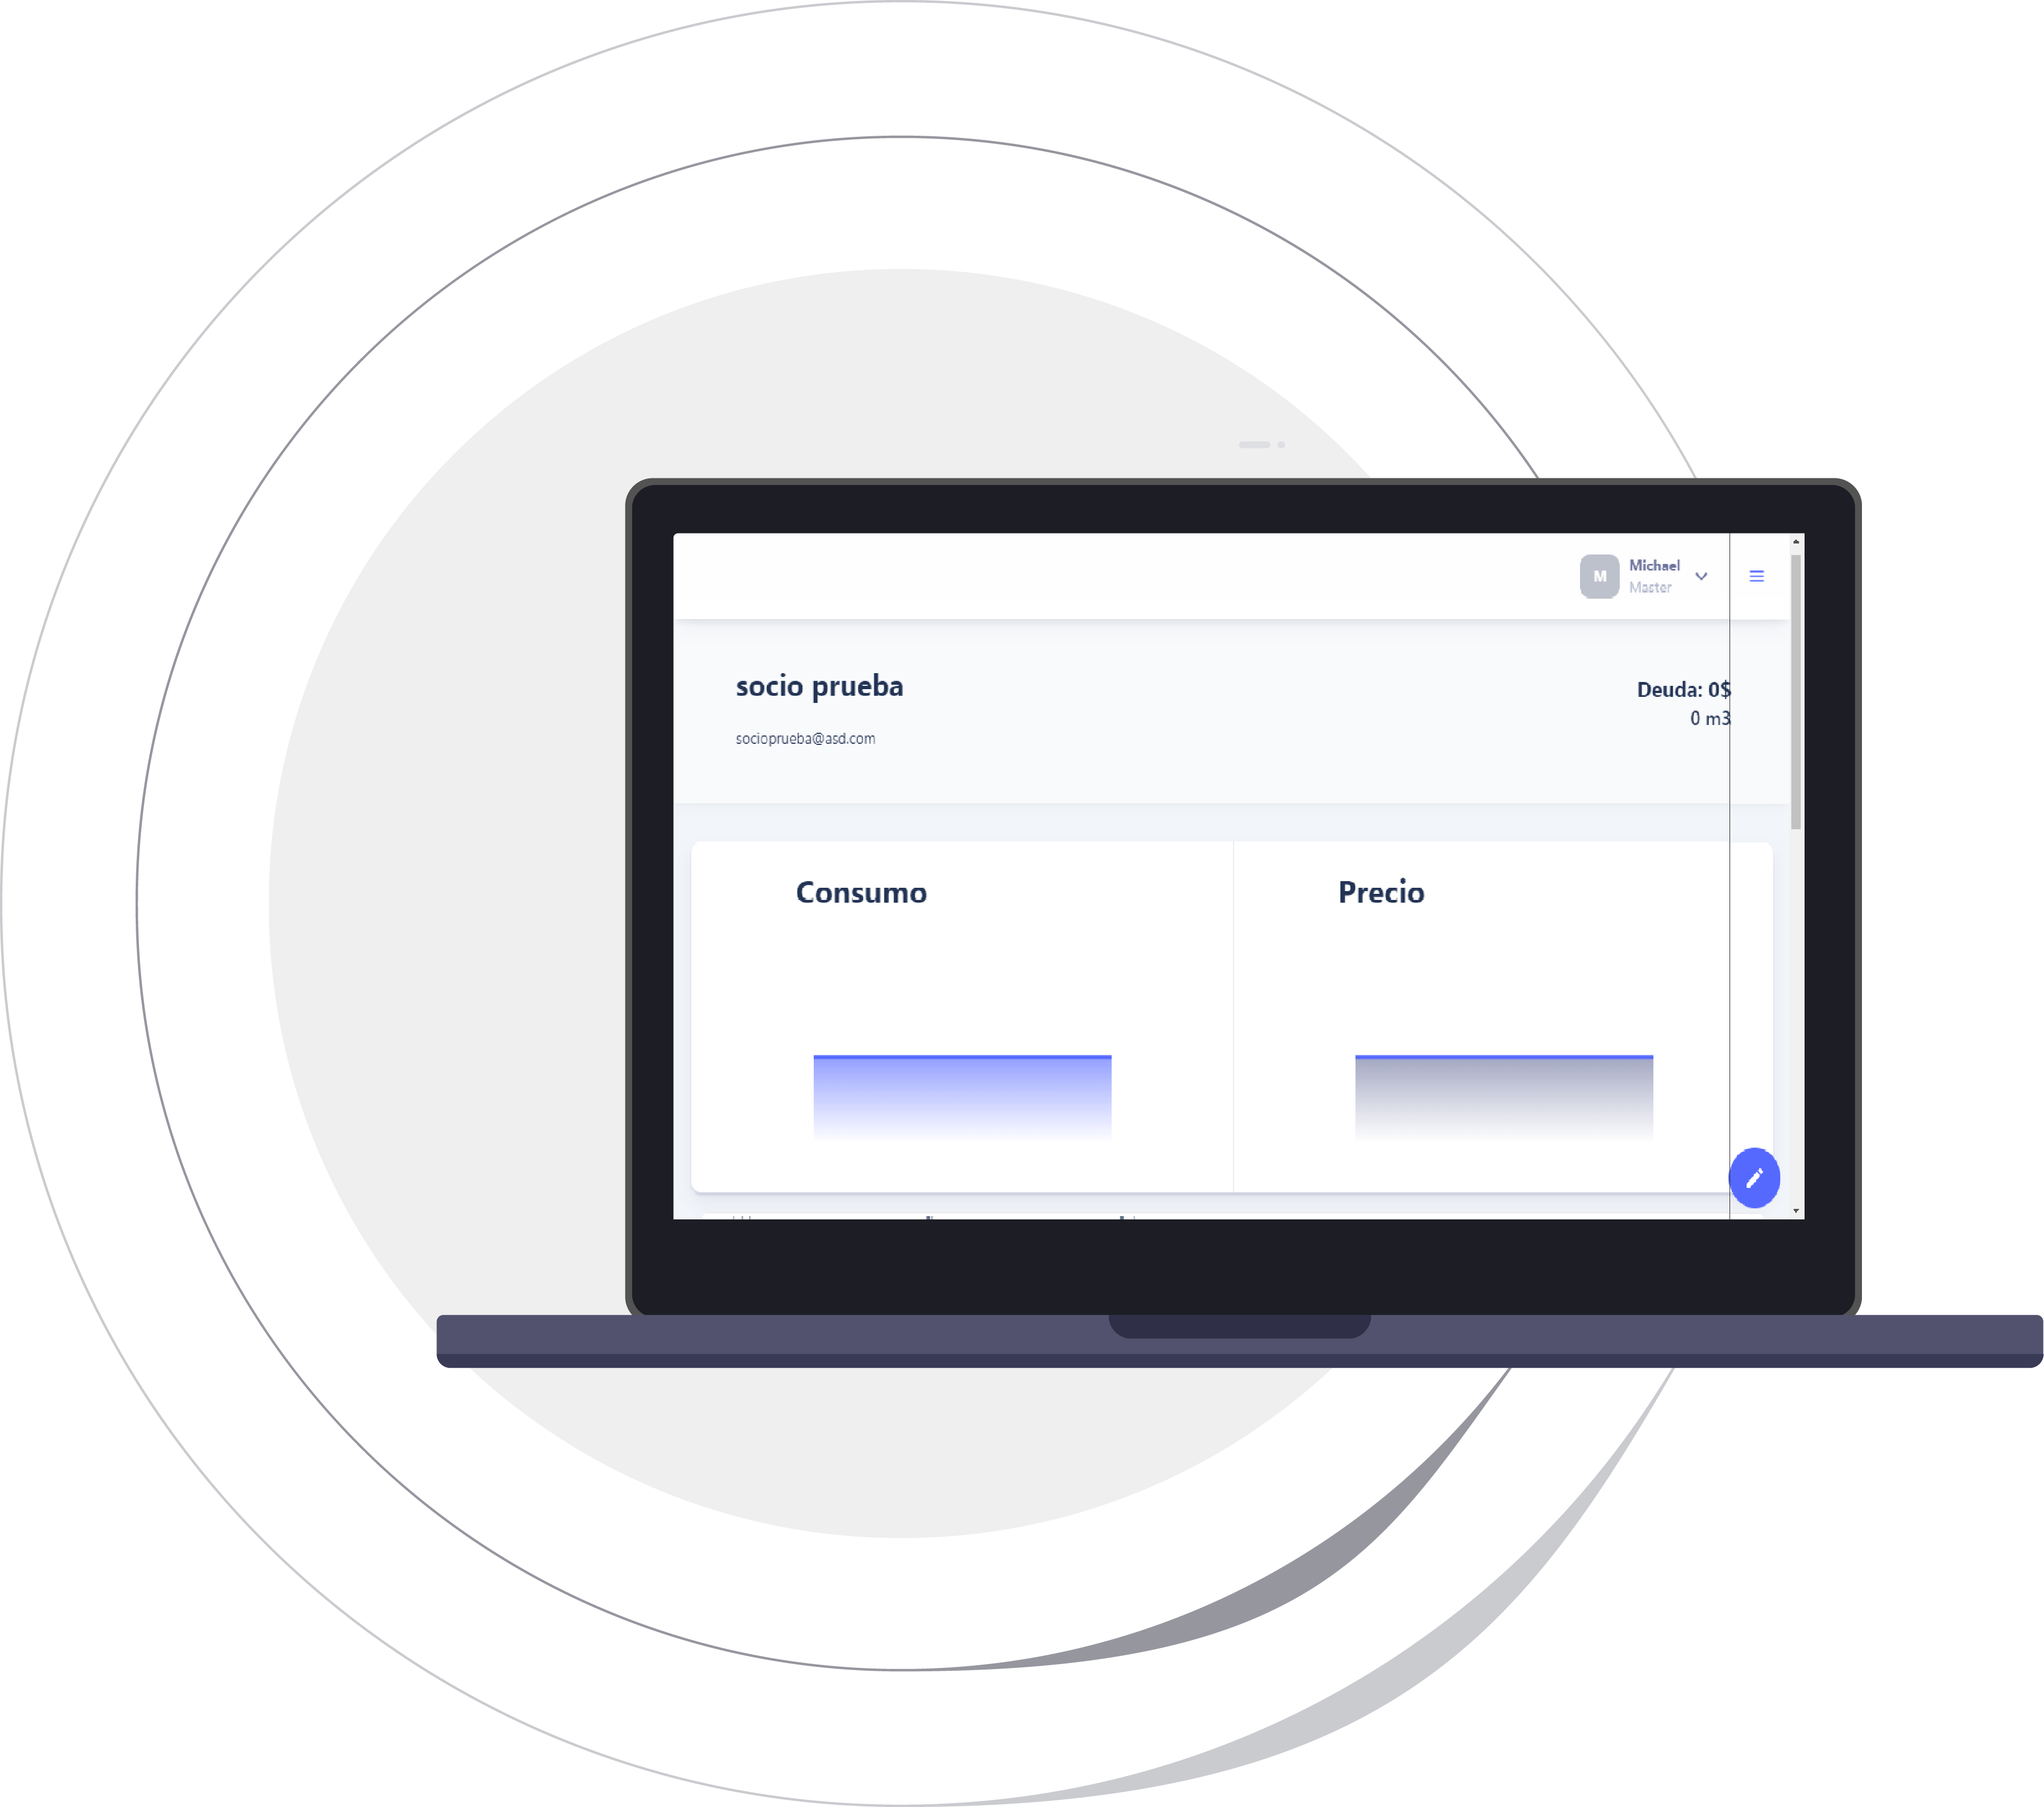
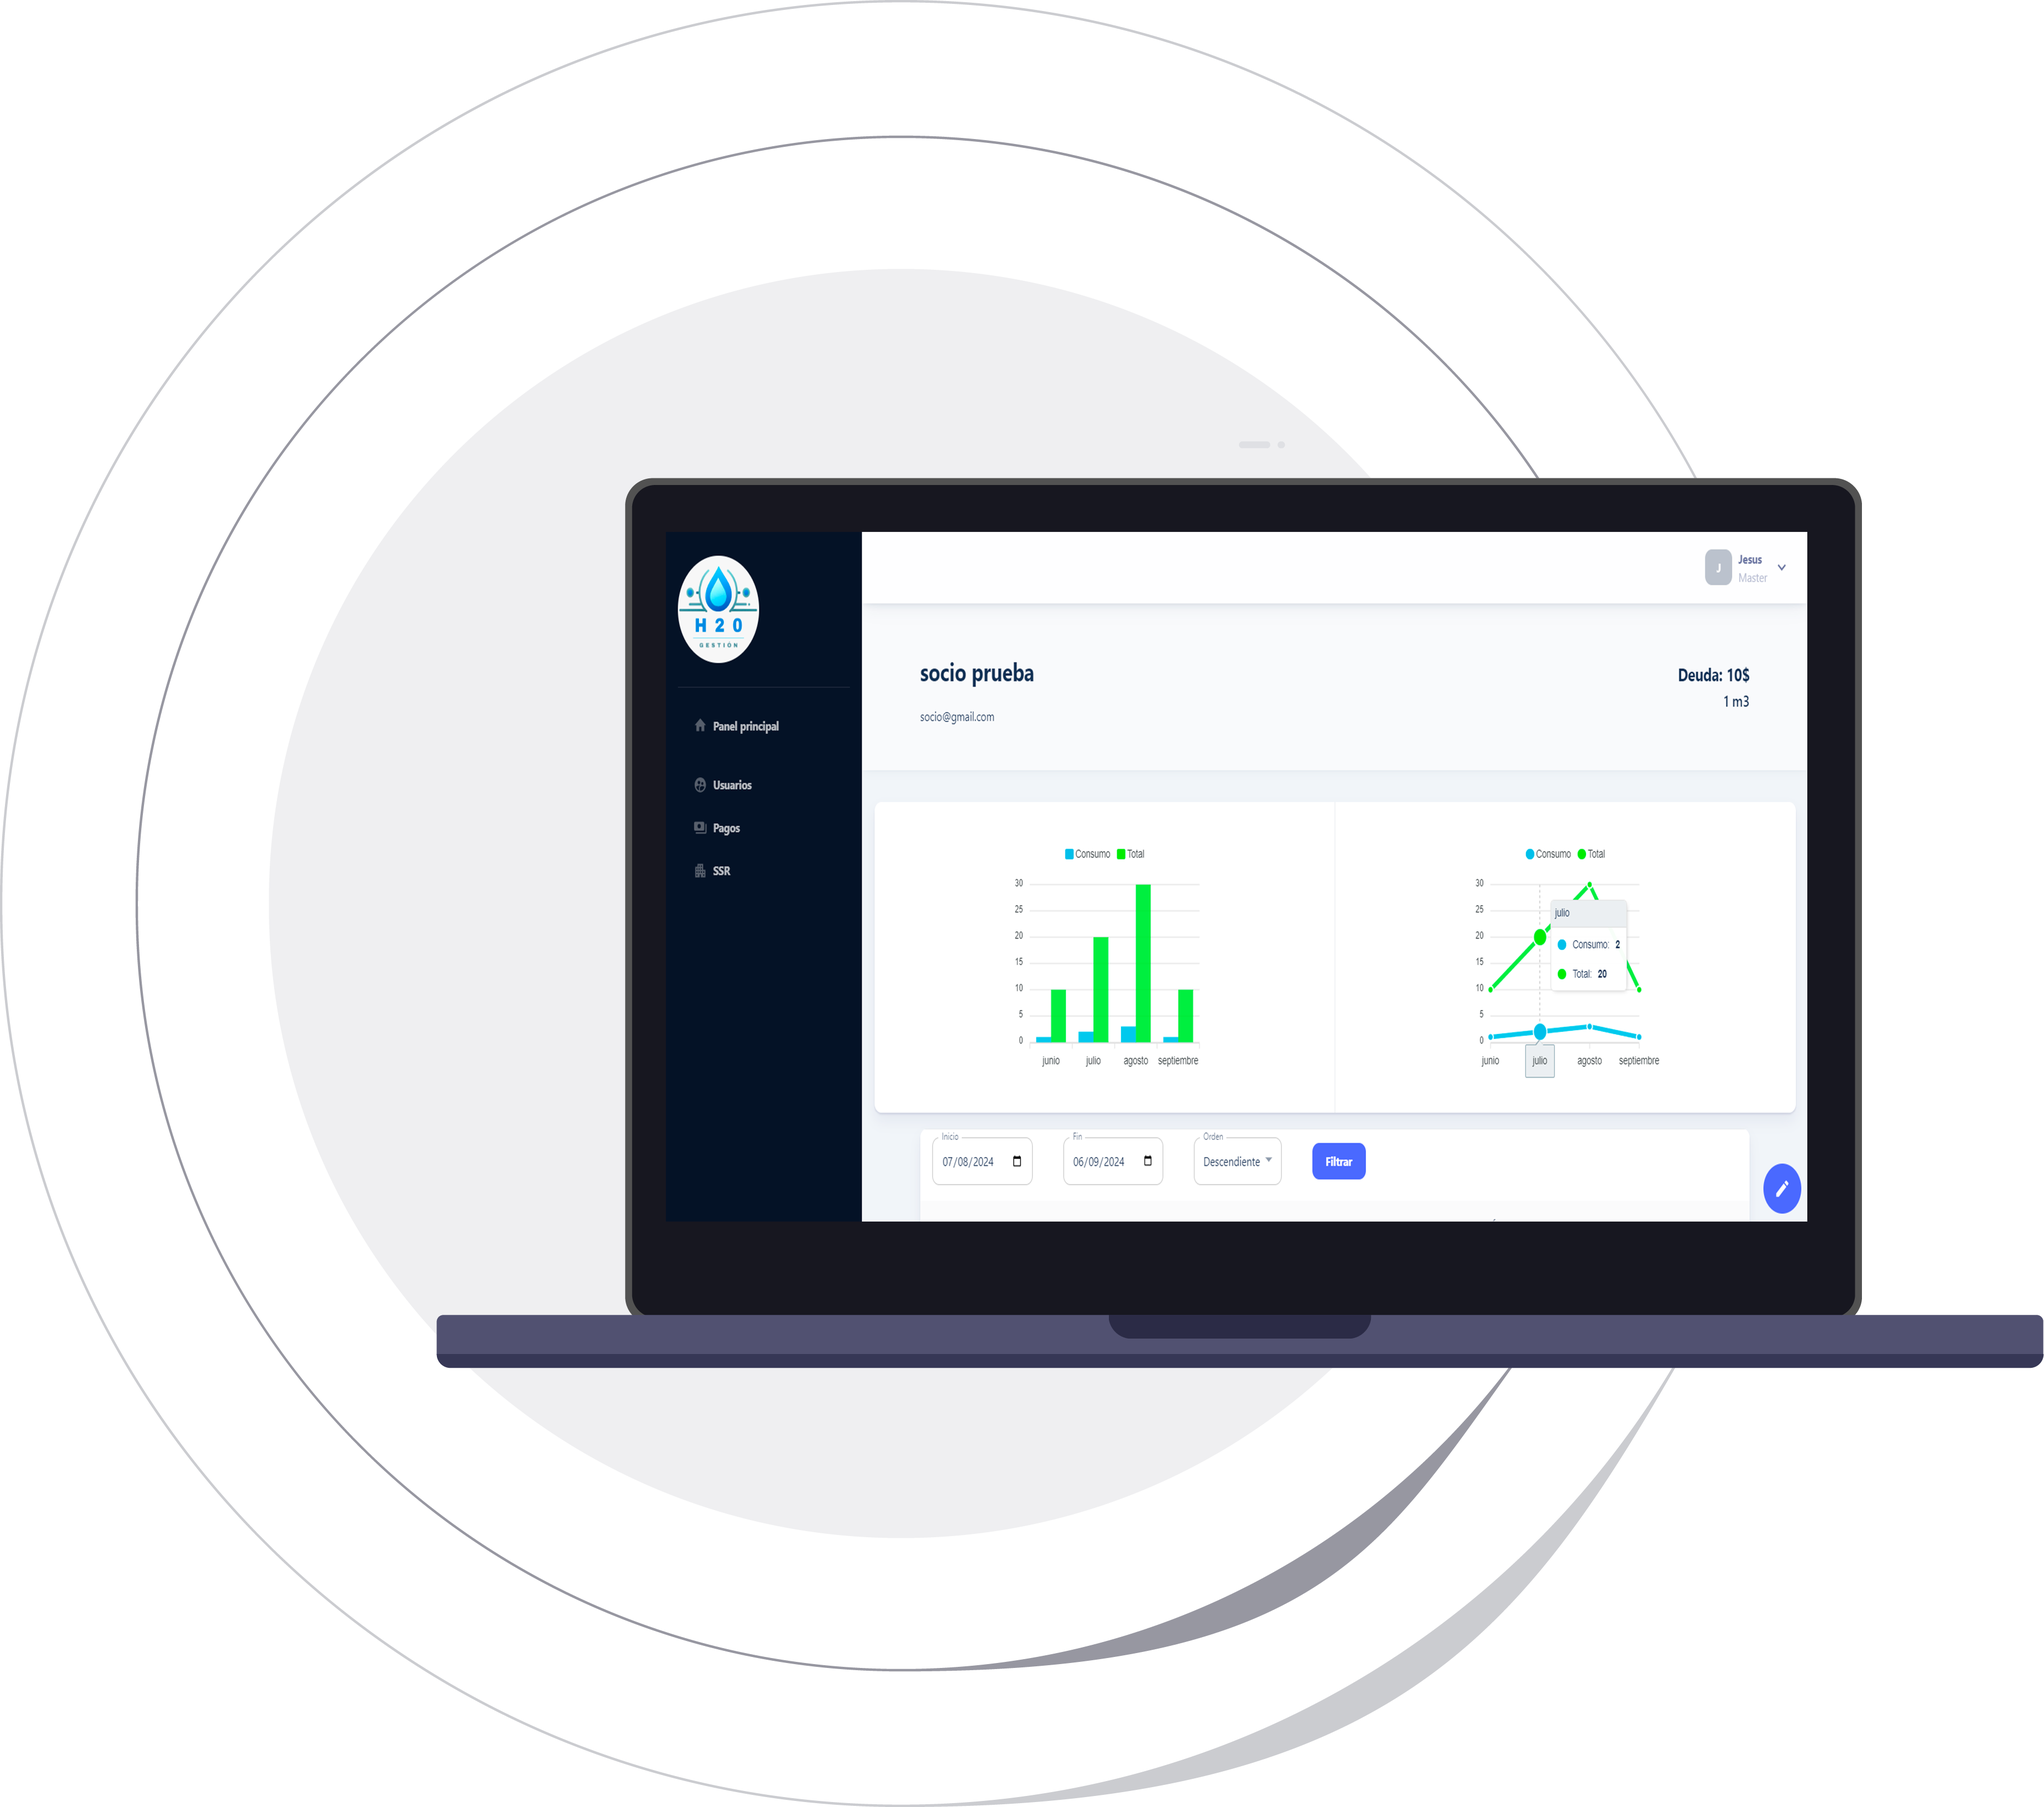
integrated charts

diff --git a/src/content/applications/UserDashboard/components/Charts.tsx b/src/content/applications/UserDashboard/components/Charts.tsx
@@ -1,12 +1,12 @@
-import { Box, Card, Divider, Stack, Typography, useTheme } from "@mui/material";
+import { Box, Card, Divider, Stack } from "@mui/material";
 import Chart from "react-apexcharts";
 import { ApexOptions } from "apexcharts";
 import { useContext, useMemo } from "react";
 import { userBillsContext } from "../context";
 import { format } from "date-fns";
+import { es } from "date-fns/locale";
 
 export default function UserCharts() {
-  const theme = useTheme();
   const { query } = useContext(userBillsContext);
   const labels = useMemo(
     () =>
@@ -26,69 +26,42 @@ export default function UserCharts() {
   );
   const chartOptions: ApexOptions = {
     chart: {
-      background: "transparent",
+      // background: "transparent",
       toolbar: {
         show: false,
       },
-      sparkline: {
-        enabled: true,
-      },
-      zoom: {
-        enabled: false,
-      },
+      // sparkline: {
+      //   enabled: true,
+      // },
+      // zoom: {
+      //   enabled: false,
+      // },
     },
-    fill: {
-      gradient: {
-        shade: "light",
-        type: "vertical",
-        shadeIntensity: 0.1,
-        inverseColors: false,
-        opacityFrom: 0.8,
-        opacityTo: 0,
-        stops: [0, 100],
-      },
-    },
-    colors: [theme.colors.primary.main],
+    colors: ["#15bee8", "#46eb34"],
+    // fill: {
+    //   type: "solid",
+    //   colors: ["#15bee8", "#46eb34"],
+    // },
     dataLabels: {
       enabled: false,
     },
-    theme: {
-      mode: theme.palette.mode,
-    },
     stroke: {
-      show: true,
-      colors: [theme.colors.primary.main],
-      width: 3,
+      show: false,
     },
     legend: {
-      show: false,
+      show: true,
+      position: "top",
+      horizontalAlign: "center",
     },
-    labels,
+    //labels: labels.map((label) => format(label, "dd-MM-yyyy")),
     xaxis: {
-      labels: {
-        show: false,
-      },
-      axisBorder: {
-        show: false,
-      },
-      axisTicks: {
-        show: false,
-      },
-    },
-    yaxis: {
-      show: false,
-      tickAmount: 5,
+      categories: labels.map((label) =>
+        format(label, "LLLL", { locale: es }),
+      ),
     },
     tooltip: {
       x: {
-        show: true,
-      },
-      y: {
-        title: {
-          formatter: function () {
-            return "Consumo: m3";
-          },
-        },
+        show: false,
       },
       marker: {
         show: false,
@@ -122,47 +95,65 @@ export default function UserCharts() {
           justifyContent="space-evenly"
         >
           <Box p={3}>
-            <Typography variant="h2">Consumo</Typography>
             <Box
               sx={{
-                p: 2,
+                pt: 2,
                 width: "100%",
               }}
             >
               <Chart
                 options={chartOptions}
-                series={[{ name: "Consumo", data }]}
-                type="area"
-                height={200}
+                series={[
+                  { name: "Consumo", data },
+                  { name: "Total", data: dataPrices },
+                ]}
+                type="bar"
+                height={260}
               />
             </Box>
           </Box>
-          <Box
-            sx={{
-              p: 3,
-            }}
-          >
-            <Typography variant="h2">Precio</Typography>
-            <Box p={2} width="100%">
+          <Box p={3}>
+            <Box
+              sx={{
+                pt: 2,
+                width: "100%",
+              }}
+            >
               <Chart
                 options={{
-                  ...chartOptions,
-                  colors: [theme.colors.secondary.main],
-                  tooltip: {
-                    ...chartOptions.tooltip,
-                    y: {
-                      ...chartOptions.tooltip!.y,
-                      title: {
-                        formatter: function () {
-                          return "Precio: $";
-                        },
-                      },
+                  labels,
+                  chart: {
+                    toolbar: {
+                      show: false,
                     },
+                    zoom: {
+                      enabled: false
+                    }
                   },
+                  colors: ["#15bee8", "#46eb34"],
+                  dataLabels: {
+                    enabled: false,
+                  },
+                  markers: {
+                    size: 4,
+                  },
+                  legend: {
+                    show: true,
+                    position: "top",
+                    horizontalAlign: "center",
+                  },
+                  xaxis: {
+                    categories: labels.map((label) =>
+                      format(label, "LLLL", { locale: es })
+                    ),
+                  }
                 }}
-                series={[{ name: "Total", data: dataPrices }]}
-                type="area"
-                height={200}
+                series={[
+                  { name: "Consumo", data },
+                  { name: "Total", data: dataPrices },
+                ]}
+                type="line"
+                height={260}
               />
             </Box>
           </Box>
